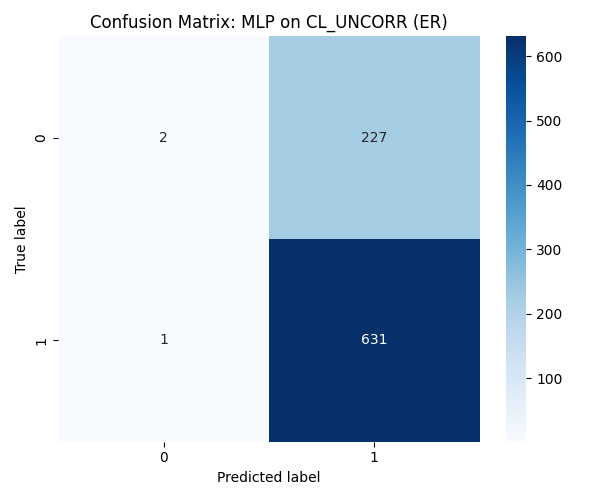
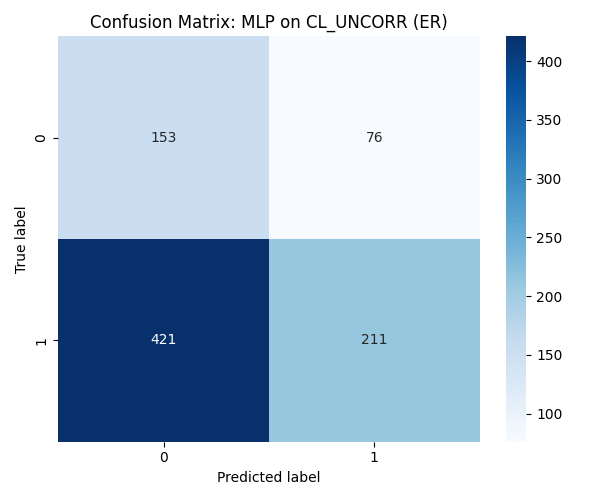
im about to add tqdm- just added SVM without hyperparameters

diff --git a/scripts/python/only_svm.py b/scripts/python/only_svm.py
@@ -1,0 +1,197 @@
+import pandas as pd
+import numpy as np
+import json
+import os
+from pathlib import Path
+from sklearn.preprocessing import LabelEncoder
+from skopt import BayesSearchCV
+from skopt.space import Categorical, Real, Integer
+from sklearn.ensemble import RandomForestClassifier
+from sklearn.neural_network import MLPClassifier
+from xgboost import XGBClassifier
+from sklearn.metrics import accuracy_score, roc_auc_score, confusion_matrix, roc_curve
+import matplotlib.pyplot as plt
+import seaborn as sns
+import warnings
+from sklearn.model_selection import cross_val_predict
+from sklearn.svm import SVC
+
+from config import SETUP
+
+warnings.filterwarnings("ignore")
+
+# Use only the ALL_IMG dataset
+DATASET_NAME = "ALL_IMG"
+TARGETS = ['ER', 'PR', 'HER2']
+
+path = Path.cwd()
+RESULTS_DEST = path / "scripts" / "python" / "all_model_results"
+HYPERPARAM_DEST = path / "notebooks" / "modeling"
+clinical_data_path = path / "data" / "raw" / "clinicalData_clean.csv"
+
+svm_grid = {
+    'C': Real(1e-3, 1e3, prior='log-uniform'),
+    'kernel': Categorical(['linear', 'rbf']),
+    'gamma': Real(1e-4, 1e-1, prior='log-uniform')
+}
+
+def load_data(X_path, target):
+    features = pd.read_csv(X_path)
+    features.rename(columns={'Patient.ID': 'Patient ID'}, inplace=True, errors='ignore')
+    clin = pd.read_csv(clinical_data_path)
+    data = features.merge(clin[['Patient ID', target]], on='Patient ID', how='inner')
+    data = data.drop('Unnamed: 0', axis=1, errors='ignore').dropna()
+    y = data[target]
+    le = LabelEncoder()
+    y = le.fit_transform(y.astype(str))
+    X = data.drop([target, 'Patient ID'], axis=1, errors='ignore')
+    return X, y, le
+
+def plot_and_save_roc(y_true, y_score, le, model_name, dataset_name, target, save_dir):
+    plt.figure(figsize=(7, 5))
+    if len(le.classes_) == 2:
+        fpr, tpr, _ = roc_curve(y_true, y_score[:, 1])
+        auc = roc_auc_score(y_true, y_score[:, 1])
+        plt.plot(fpr, tpr, label=f"AUC = {auc:.2f}")
+    else:
+        auc = roc_auc_score(y_true, y_score, multi_class='ovr')
+        for i in range(len(le.classes_)):
+            fpr, tpr, _ = roc_curve(y_true == i, y_score[:, i])
+            plt.plot(fpr, tpr, label=f'Class {le.inverse_transform([i])[0]} (AUC = {roc_auc_score(y_true == i, y_score[:, i]):.2f})')
+    plt.plot([0, 1], [0, 1], 'k--')
+    plt.xlabel('False Positive Rate')
+    plt.ylabel('True Positive Rate')
+    plt.title(f'ROC Curve: {model_name} on {dataset_name} ({target})')
+    plt.legend()
+    plt.tight_layout()
+    os.makedirs(save_dir, exist_ok=True)
+    plt.savefig(save_dir / f"{model_name}_roc.png")
+    plt.close()
+    return auc
+
+def plot_and_save_confusion_matrix(cm, le, model_name, dataset_name, target, save_dir):
+    plt.figure(figsize=(6, 5))
+    labels = le.inverse_transform(range(cm.shape[0]))
+    sns.heatmap(cm, annot=True, fmt='d', cmap='Blues', 
+                xticklabels=labels, yticklabels=labels)
+    plt.xlabel('Predicted label')
+    plt.ylabel('True label')
+    plt.title(f'Confusion Matrix: {model_name} on {dataset_name} ({target})')
+    plt.tight_layout()
+    os.makedirs(save_dir, exist_ok=True)
+    plt.savefig(save_dir / f"{model_name}_confusion.png")
+    plt.close()
+
+def log_search_results(search, model_name, all_results):
+    all_results.append({
+        "model": model_name,
+        "best_params": search.best_params_,
+        "best_score": search.best_score_,
+        "cv_results": {
+            "mean_test_score": search.cv_results_["mean_test_score"].tolist(),
+            "std_test_score": search.cv_results_["std_test_score"].tolist(),
+            "params": search.cv_results_["params"]
+        }
+    })
+
+from tqdm import tqdm
+from sklearn.model_selection import StratifiedKFold
+
+def main():
+    print(f"\n=== Processing ALL_IMG dataset ===")
+    setup = SETUP[DATASET_NAME]
+    for target in TARGETS:
+        print(f"\nProcessing target: {target}")
+        X, y, le = load_data(setup['X'], target)
+        all_results = []
+        dataset_results = {}
+
+        '''
+        print("Starting SVM BayesSearchCV...")
+        svm_bayes = BayesSearchCV(
+            estimator=SVC(probability=True),
+            search_spaces=svm_grid,
+            n_iter=32,
+            cv=3,
+            n_jobs=-1,
+            random_state=42,
+            verbose=3  # More verbose output
+        )
+        print("Search complete. Starting fit.")
+        svm_bayes.fit(X, y)
+        print("BayesSearchCV complete.")
+
+        log_search_results(svm_bayes, "SVM", all_results)
+        svm_final = SVC(probability=True, **svm_bayes.best_params_)
+
+        print("Starting cross_val_predict (labels)...")
+        cv = StratifiedKFold(n_splits=3, shuffle=True, random_state=42)
+        y_pred = np.zeros_like(y)
+        y_proba = np.zeros((len(y), len(le.classes_)))
+        for i, (train_idx, test_idx) in enumerate(tqdm(cv.split(X, y), total=3, desc="CV Folds")):
+            svm_final.fit(X.iloc[train_idx], y[train_idx])
+            y_pred[test_idx] = svm_final.predict(X.iloc[test_idx])
+            y_proba[test_idx] = svm_final.predict_proba(X.iloc[test_idx])
+        print("cross_val_predict complete.")
+
+        print("Skipping BayesSearchCV. Training default SVM...")
+        svm_final = SVC(probability=True, kernel='rbf', C=1.0, gamma='scale', random_state=42)
+        cv = StratifiedKFold(n_splits=3, shuffle=True, random_state=42)
+        y_pred = np.zeros_like(y)
+        y_proba = np.zeros((len(y), len(le.classes_)))
+        for i, (train_idx, test_idx) in enumerate(tqdm(cv.split(X, y), total=3, desc="CV Folds")):
+            svm_final.fit(X.iloc[train_idx], y[train_idx])
+            y_pred[test_idx] = svm_final.predict(X.iloc[test_idx])
+            y_proba[test_idx] = svm_final.predict_proba(X.iloc[test_idx])
+        print("cross_val_predict complete.")
+
+        acc = accuracy_score(y, y_pred)
+        auc = plot_and_save_roc(y, y_proba, le, "SVM", DATASET_NAME, target, RESULTS_DEST / target / DATASET_NAME)
+        cm = confusion_matrix(y, y_pred)
+        plot_and_save_confusion_matrix(cm, le, "SVM", DATASET_NAME, target, RESULTS_DEST / target / DATASET_NAME)
+        dataset_results["SVM"] = {
+            "accuracy": acc,
+            "auc": auc,
+            "confusion_matrix": cm.tolist(),
+            "best_params": svm_bayes.best_params_
+        }
+
+
+        # Save hyperparameters for this target
+        hyperparam_dir = HYPERPARAM_DEST / target
+        os.makedirs(hyperparam_dir, exist_ok=True)
+        with open(hyperparam_dir / f"{DATASET_NAME}.json", "w") as f:
+            json.dump(all_results, f, indent=2)
+        '''
+        print("Skipping BayesSearchCV. Training default SVM...")
+        svm_final = SVC(probability=True, kernel='rbf', C=1.0, gamma='scale', random_state=42)
+        cv = StratifiedKFold(n_splits=3, shuffle=True, random_state=42)
+        y_pred = np.zeros_like(y)
+        y_proba = np.zeros((len(y), len(le.classes_)))
+        for i, (train_idx, test_idx) in enumerate(tqdm(cv.split(X, y), total=3, desc="CV Folds")):
+            svm_final.fit(X.iloc[train_idx], y[train_idx])
+            y_pred[test_idx] = svm_final.predict(X.iloc[test_idx])
+            y_proba[test_idx] = svm_final.predict_proba(X.iloc[test_idx])
+        print("cross_val_predict complete.")
+
+        acc = accuracy_score(y, y_pred)
+        auc = plot_and_save_roc(y, y_proba, le, "SVM", DATASET_NAME, target, RESULTS_DEST / target / DATASET_NAME)
+        cm = confusion_matrix(y, y_pred)
+        plot_and_save_confusion_matrix(cm, le, "SVM", DATASET_NAME, target, RESULTS_DEST / target / DATASET_NAME)
+        dataset_results["SVM"] = {
+            "accuracy": acc,
+            "auc": auc,
+            "confusion_matrix": cm.tolist(),
+            "best_params": {"kernel": "rbf", "C": 1.0, "gamma": "scale"}
+        }
+
+        # Save results for this target
+        results_dir = RESULTS_DEST / target / DATASET_NAME
+        os.makedirs(results_dir, exist_ok=True)
+        with open(results_dir / "metrics_only_svm.json", "w") as f:
+            json.dump(dataset_results, f, indent=2)
+
+        print(f"Saved results and hyperparameters for {target} - {DATASET_NAME}")
+
+if __name__ == "__main__":
+    main()

diff --git a/scripts/python/train_model_zoo_binary.py b/scripts/python/train_model_zoo_binary.py
@@ -22,6 +22,8 @@ import matplotlib.pyplot as plt
 import seaborn as sns
 import warnings
 from sklearn.model_selection import cross_val_predict
+from sklearn.svm import SVC
+from sklearn.model_selection import StratifiedKFold
 
 from config import SETUP
 
@@ -57,6 +59,11 @@ mlp_grid = {
     'solver': Categorical(['adam', 'sgd']),
     'alpha': Real(0.0001, 0.01, prior='log-uniform'),
     'learning_rate_init': Real(0.001, 0.01, prior='log-uniform')
+}
+svm_grid = {
+    'C': Real(1e-3, 1e3, prior='log-uniform'),
+    'kernel': Categorical(['linear', 'rbf']),
+    'gamma': Real(1e-4, 1e-1, prior='log-uniform')
 }
 
 def load_data(X_path, target):
@@ -133,6 +140,7 @@ def main():
             dataset_results = {}
 
             # RandomForest
+            print('\t starting RF train')
             rf_bayes = BayesSearchCV(
                 estimator=RandomForestClassifier(),
                 search_spaces=rf_grid,
@@ -147,6 +155,7 @@ def main():
             rf_best_params = rf_bayes.best_params_.copy()
             #rf_best_params['class_weight'] = 'balanced'
             rf_final = RandomForestClassifier(**rf_best_params)
+            
             y_pred = cross_val_predict(rf_final, X, y, cv=3)
             y_proba = cross_val_predict(rf_final, X, y, cv=3, method='predict_proba')
             acc = accuracy_score(y, y_pred)
@@ -161,6 +170,7 @@ def main():
             }
 
             # XGBoost
+            print('\t starting XGBoost train')
             xgb_bayes = BayesSearchCV(
                 estimator=XGBClassifier(use_label_encoder=False, eval_metric='logloss'),
                 search_spaces=xgb_grid,
@@ -187,6 +197,7 @@ def main():
             }
 
             # MLP
+            print('\t starting MLP train')
             mlp_bayes = BayesSearchCV(
                 estimator=MLPClassifier(max_iter=2000),
                 search_spaces=mlp_grid,
@@ -211,6 +222,58 @@ def main():
                 "confusion_matrix": cm.tolist(),
                 "best_params": mlp_bayes.best_params_
             }
+
+            # SVM
+            '''
+            # If we want to include the hyperparameter search
+            svm_bayes = BayesSearchCV(
+                estimator=SVC(probability=True),
+                search_spaces=svm_grid,
+                n_iter=32,
+                cv=3,
+                n_jobs=-1,
+                random_state=42,
+                verbose=0
+            )
+            svm_bayes.fit(X, y)
+            log_search_results(svm_bayes, "SVM", all_results)
+            svm_final = SVC(probability=True, **svm_bayes.best_params_)
+            y_pred = cross_val_predict(svm_final, X, y, cv=3)
+            y_proba = cross_val_predict(svm_final, X, y, cv=3, method='predict_proba')
+            acc = accuracy_score(y, y_pred)
+            auc = plot_and_save_roc(y, y_proba, le, "SVM", dataset_name, target, RESULTS_DEST / target / dataset_name)
+            cm = confusion_matrix(y, y_pred)
+            plot_and_save_confusion_matrix(cm, le, "SVM", dataset_name, target, RESULTS_DEST / target / dataset_name)
+            dataset_results["SVM"] = {
+                "accuracy": acc,
+                "auc": auc,
+                "confusion_matrix": cm.tolist(),
+                "best_params": svm_bayes.best_params_
+            }
+            '''
+
+            # SVM
+            print('\t starting SVM train')
+            svm_final = SVC(probability=True, kernel='rbf', C=1.0, gamma='scale', random_state=42)
+            cv = StratifiedKFold(n_splits=3, shuffle=True, random_state=42)
+            y_pred = np.zeros_like(y)
+            y_proba = np.zeros((len(y), len(le.classes_)))
+            for i, (train_idx, test_idx) in enumerate(tqdm(cv.split(X, y), total=3, desc="CV Folds")):
+                svm_final.fit(X.iloc[train_idx], y[train_idx])
+                y_pred[test_idx] = svm_final.predict(X.iloc[test_idx])
+                y_proba[test_idx] = svm_final.predict_proba(X.iloc[test_idx])
+
+            acc = accuracy_score(y, y_pred)
+            auc = plot_and_save_roc(y, y_proba, le, "SVM", dataset_name, target, RESULTS_DEST / target / DATASET_NAME)
+            cm = confusion_matrix(y, y_pred)
+            plot_and_save_confusion_matrix(cm, le, "SVM", dataset_name, target, RESULTS_DEST / target / DATASET_NAME)
+            dataset_results["SVM"] = {
+                "accuracy": acc,
+                "auc": auc,
+                "confusion_matrix": cm.tolist(),
+                "best_params": {"kernel": "rbf", "C": 1.0, "gamma": "scale"}
+            }
+                
 
             # Save hyperparameters for this dataset/target
             hyperparam_dir = HYPERPARAM_DEST / target

diff --git a/scripts/python/config.py b/scripts/python/config.py
@@ -9,7 +9,7 @@ from pathlib import Path
 path = Path.cwd()
 
 # Temporary with only one dataset for debugging.
-SETUP = {
+SETUP2 = {
     'CL_UNCORR': {
         'X': path / "data" / "interim" / "imagingFeatures_uncorrelated_clustering.csv",
         'hyperparameters_file': path / "notebooks" / "modeling" / "optimal_params_cl_uncorr.json"
@@ -17,7 +17,11 @@ SETUP = {
 }
 
 # Delete SETUP and change name when ready finally.
-SETUP2 = {
+SETUP = {
+    'CL_UNCORR': {
+        'X': path / "data" / "interim" / "imagingFeatures_uncorrelated_clustering.csv",
+        'hyperparameters_file': path / "notebooks" / "modeling" / "optimal_params_cl_uncorr.json"
+    },
     'PC1': {
         'X': path / "data" / "interim" / "pc_by_feature_group_for_patients.csv",
         'hyperparameters_file': path / "notebooks" / "modeling" / "optimal_params_pc1.json"

diff --git a/scripts/python/correlation/clustering_drop_redundant.py b/scripts/python/correlation/clustering_drop_redundant.py
@@ -35,6 +35,8 @@ np.fill_diagonal(distance_matrix.values, 0)
 condensed_dist = squareform(distance_matrix.values, checks=False)
 
 # Hierarchical clustering
+# linkage matrix has four columns per merge:
+# [idx1, idx2, distance, new_cluster_size]
 Z = linkage(condensed_dist, method='average')
 
 # Choose a threshold for cluster formation (e.g., 0.1 = features with corr > 0.9 are grouped)
